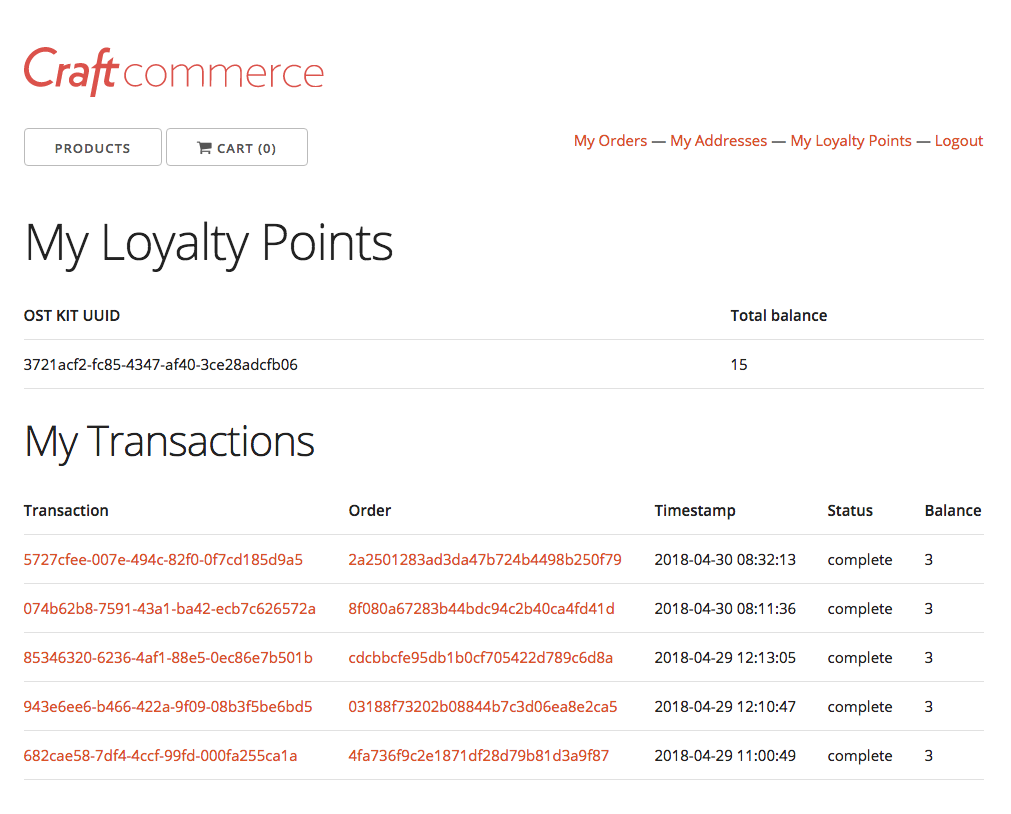
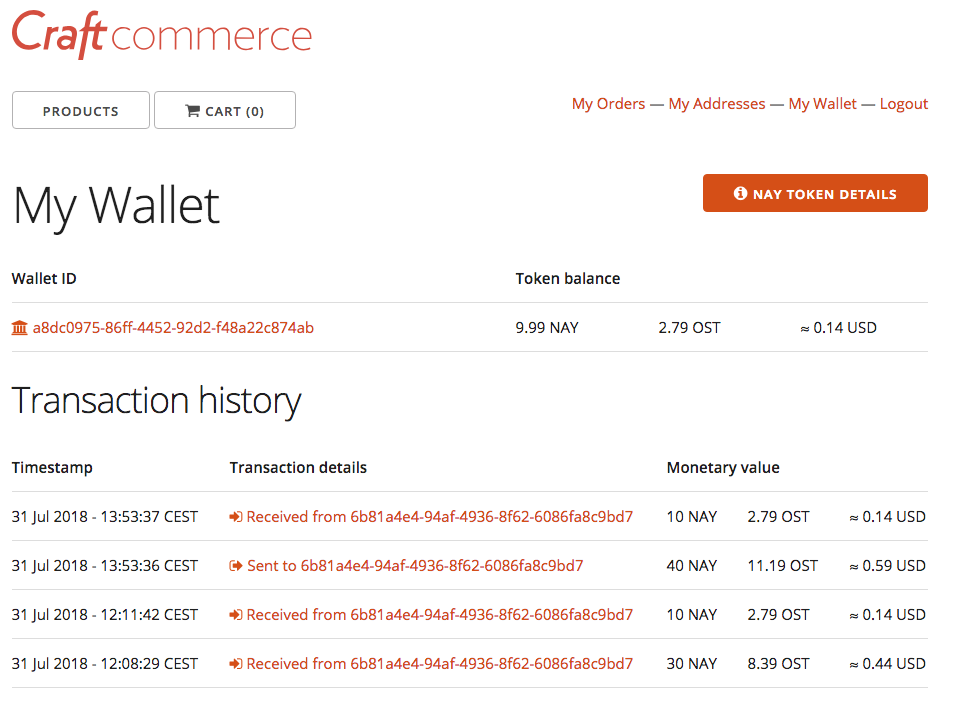
OSTa3 - Ledger API + spending tokens as order discount (craft adjuster)

diff --git a/ostloyaltytokens/services/OstLoyaltyTokens_TransactionsService.php b/ostloyaltytokens/services/OstLoyaltyTokens_TransactionsService.php
@@ -28,14 +28,14 @@ class OstLoyaltyTokens_TransactionsService extends BaseApplicationComponent {
         $rows = '';
         $token = OstLoyaltyTokensPlugin::getOstKitClient()->getToken();
         //https://view.ost.com/chain-id/1409/transaction/0x6d6332dc2ac55c2ae022c9f2f5eb62dbac0526e52e43b454258d48ebb4a5473e
-        $viewUrl = 'https://view.ost.com/chain-id/'.$token['ost_utility_balance'][0][0].'/transaction/';
+        $viewUrl = 'https://view.ost.com/chain-id/' . $token['ost_utility_balance'][0][0] . '/transaction/';
         foreach ($transactions as $transactionUuid) {
             $transaction = $this->getStatusForTransaction($transactionUuid);
-            OstLoyaltyTokensPlugin::log("Transaction $transactionUuid: " . $transaction['status'] . ' (' . $viewUrl.$transaction['transaction_hash'] . ')');
+            OstLoyaltyTokensPlugin::log("Transaction $transactionUuid: " . $transaction['status'] . ' (' . $viewUrl . $transaction['transaction_hash'] . ')');
             $orderUrl = "<a href=\"" . UrlHelper::getUrl('shop/customer/order', array('number' => $orderNumber)) . "\">$orderNumber</a>";
-            $viewLink = '<a target="_blank" title="View transaction ' . $transaction['transaction_hash'] . ' in OST View" href="' . $viewUrl.$transaction['transaction_hash'] . '">' . $transactionUuid . '</a>';
+            $viewLink = '<a target="_blank" title="View transaction ' . $transaction['transaction_hash'] . ' in OST View" href="' . $viewUrl . $transaction['transaction_hash'] . '">' . $transactionUuid . '</a>';
             if (isset($transaction['status'])) {
-                $rows .= '<tr><td>' . $viewLink . '</td><td>' . $orderUrl . '</td><td>' . date('Y-m-d H:i:s', $transaction['timestamp']) . '</td><td>' . $transaction['status'] . '</td><td>' . $transaction['amount'].' '.$token['symbol'] . '</td></tr>';
+                $rows .= '<tr><td>' . $viewLink . '</td><td>' . $orderUrl . '</td><td>' . date('Y-m-d H:i:s', $transaction['timestamp']) . '</td><td>' . $transaction['status'] . '</td><td>' . $transaction['amount'] . ' ' . $token['symbol'] . '</td></tr>';
             } else {
                 $rows .= "<tr></tr><td>Transaction #$transactionUuid</td><td>$orderUrl</td><td>?</td><td>unconfirmed</td><td>?</td></tr>";
             }
@@ -60,10 +60,10 @@ class OstLoyaltyTokens_TransactionsService extends BaseApplicationComponent {
         $token = OstLoyaltyTokensPlugin::getOstKitClient()->getToken();
         $fromUuid = $token['company_uuid'];
         $toUuid = craft()->userSession->getUser()->getContent()->ost_kit_uuid;
-        $transactionType = $settings['company_to_user_transaction_type'];
+        $action = $settings['reward_action'];
         $transactions = array();
         for ($i = 0; $i < $order->getTotalQty(); $i++) {
-            $transaction = OstLoyaltyTokensPlugin::getOstKitClient()->executeAction($transactionType, $fromUuid, $toUuid);
+            $transaction = OstLoyaltyTokensPlugin::getOstKitClient()->executeAction($action, $fromUuid, $toUuid);
             $transactionUuid = $transaction['id'];
             OstLoyaltyTokensPlugin::log("Executed reward action from '$fromUuid' to '$toUuid' ($transactionUuid)");
             array_push($transactions, $transactionUuid);
@@ -72,7 +72,7 @@ class OstLoyaltyTokens_TransactionsService extends BaseApplicationComponent {
         $order->getContent()->ost_kit_transaction = implode(",", $transactions);
         // save the order
         if (craft()->commerce_orders->saveOrder($order)) {
-            craft()->userSession->setFlash('ostLoyaltyTokens_notice', 'You received '.($order->getTotalQty()*3).' loyalty tokens for order #'.$order->shortNumber.' ('.$order->getContent()->ost_kit_transaction.')');
+            craft()->userSession->setFlash('ostLoyaltyTokens_notice', 'You received ' . ($order->getTotalQty() * 10) . ' tokens for order #' . $order->number.'.');
         } else {
             $msg = "Unable to assign Branded Token transaction.";
             OstLoyaltyTokensPlugin::logError($msg);
@@ -82,19 +82,20 @@ class OstLoyaltyTokens_TransactionsService extends BaseApplicationComponent {
     }
 
     public function executeRefundTransaction($order) {
-        OstLoyaltyTokensPlugin::log('Assigning refund transactions for order ' . $order->id);
+        OstLoyaltyTokensPlugin::log('Assigning refund transactions for order #' . $order->number);
         $settings = OstLoyaltyTokensPlugin::getPluginSettings();
-        $toUuid = $settings['company_uuid'];
+        $token = OstLoyaltyTokensPlugin::getOstKitClient()->getToken();
+        $toUuid = $token['company_uuid'];
         $fromUuid = craft()->userSession->getUser()->getContent()->ost_kit_uuid;
-        $transactionType = $settings['user_to_company_transaction_type'];
-        $transaction = OstLoyaltyTokensPlugin::getOstKitClient()->executeTransactionType($fromUuid, $toUuid, $transactionType);
+        $action = $settings['refund_action'];
+        $transaction = OstLoyaltyTokensPlugin::getOstKitClient()->executeAction($action, $fromUuid, $toUuid);
         $transactionUuid = $transaction['transaction_uuid'];
-        OstLoyaltyTokensPlugin::log("Executed '$transactionType' transaction from '$fromUuid' to '$toUuid' (OST KIT Transaction UUID='$transactionUuid')");
+        OstLoyaltyTokensPlugin::log("Executed '$action' transaction from '$fromUuid' to '$toUuid' ($transactionUuid)");
 
         $order->getContent()->ost_kit_transaction = $transactionUuid;
         // save the order
         if (craft()->commerce_orders->saveOrder($order)) {
-            $msg = "Branded Token transaction '$transactionUuid' has been assigned to order #'$order->number'";
+            $msg = "Branded Token transaction '$transactionUuid' has been assigned to order #$order->number.";
             OstLoyaltyTokensPlugin::log($msg);
             craft()->userSession->setFlash('ostLoyaltyTokens_notice', $msg);
         } else {
@@ -105,12 +106,52 @@ class OstLoyaltyTokens_TransactionsService extends BaseApplicationComponent {
         return $transactionUuid;
     }
 
+    public function executeRegistrationTransaction($toUuid) {
+        $settings = OstLoyaltyTokensPlugin::getPluginSettings();
+        if (isset($settings['registration_action'])) {
+            $token = OstLoyaltyTokensPlugin::getOstKitClient()->getToken();
+            $fromUuid = $token['company_uuid'];
+            OstLoyaltyTokensPlugin::log('Assigning registration bonus to user ' . $toUuid);
+            $transaction = OstLoyaltyTokensPlugin::getOstKitClient()->executeAction($settings['registration_action'], $fromUuid, $toUuid);
+            OstLoyaltyTokensPlugin::log("Executed reward action from '$fromUuid' to '$toUuid' ({$transaction['id']})");
+            return $transaction['id'];
+        }
+    }
+
+    public function executeDiscountTransaction($order, $discount) {
+        $settings = OstLoyaltyTokensPlugin::getPluginSettings();
+        if (isset($settings['discount_action'])) {
+            $fromUuid = craft()->userSession->getUser()->getContent()->ost_kit_uuid;
+            $balance = OstLoyaltyTokensPlugin::getOstKitClient()->getCombinedBalance($fromUuid);
+            if (isset($balance['usd_value']) && $balance['usd_value'] > 0) {
+//                $order->
+            }
+            $token = OstLoyaltyTokensPlugin::getOstKitClient()->getToken();
+            $toUuid = $token['company_uuid'];
+            OstLoyaltyTokensPlugin::log("Applied arbitrary discount of $discount USD to order #{$order->number}.");
+            $transaction = OstLoyaltyTokensPlugin::getOstKitClient()->executeAction($settings['discount_action'], $fromUuid, $toUuid, $discount);
+            OstLoyaltyTokensPlugin::log("Executed arbitrary discount action from '$fromUuid' to '$toUuid' ({$transaction['id']})");
+            return $transaction['id'];
+        }
+    }
+
     public function getLedger() {
+        $token = OstLoyaltyTokensPlugin::getOstKitClient()->getToken();
         $userId = craft()->userSession->getUser()->getContent()->ost_kit_uuid;
         OstLoyaltyTokensPlugin::log("Consulting ledger for $userId");
         $transactions = OstLoyaltyTokensPlugin::getOstKitClient()->getLedger($userId);
         // filter out failed transactions, they mess up the list anyway
-        return array_filter($transactions, function ($transaction) {return $transaction['status'] !== 'failed';}, ARRAY_FILTER_USE_BOTH);
+        return array_filter($transactions, function ($transaction) use ($token) {
+            if ($transaction['status'] !== 'failed') {
+                if ($token['company_uuid'] == $transaction['from_user_id']) {
+                    $transaction['from_user_id'] = 'Branded Token Company';
+                } else if ($token['company_uuid'] == $transaction['to_user_id']) {
+                    $transaction['to_user_id'] = 'Branded Token Company';
+                }
+                return true;
+            }
+            return false;
+        }, ARRAY_FILTER_USE_BOTH);
     }
 
 }

diff --git a/ostloyaltytokens/OstLoyaltyTokensPlugin.php b/ostloyaltytokens/OstLoyaltyTokensPlugin.php
@@ -13,6 +13,7 @@
 
 namespace Craft;
 require_once __DIR__ . '/../vendor/autoload.php';
+require_once __DIR__ . '/OstDiscounter.php';
 
 use ostkit\OstKitClient;
 
@@ -39,32 +40,49 @@ class OstLoyaltyTokensPlugin extends BasePlugin {
             return false;
         }
 
-        // listen for new user registrations only
+        // listen for new user registrations
         craft()->on('users.onBeforeSaveUser', function (Event $event) {
             // Only fire if new user, this should avoid an infinite loop
             $user = $event->params['user'];
             if ($event->params['isNewUser'] && craft()->request->isSiteRequest()) {
                 // retrieve the userModel from the event
                 craft()->ostLoyaltyTokens_users->createUser($user);
+                craft()->ostLoyaltyTokens_transactions->executeRegistrationTransaction($user->getContent()->ost_kit_uuid);
             }
             OstLoyaltyTokensPlugin::log("User '$user->name' has OST KIT UUID '" . $user->getContent()->ost_kit_uuid . "'");
         });
 
         // assign tokens on order completion
         craft()->on('commerce_orders.onOrderComplete', function (Event $event) {
+            foreach ($event->params['order']->adjustments as $adjustment) {
+                if ($adjustment->name === 'Loyalty token discount') {
+                    OstLoyaltyTokensPlugin::log('Executing discount transaction for Order #' . $event->params['order']);
+                    craft()->ostLoyaltyTokens_transactions->executeDiscountTransaction($event->params['order'], abs($adjustment->amount));
+                    break;
+                }
+            }
             OstLoyaltyTokensPlugin::log('Executing reward transaction for Order #' . $event->params['order']);
             craft()->ostLoyaltyTokens_transactions->executeRewardTransaction($event->params['order']);
         });
 
         // subtract tokens on order cancellation
         craft()->on('commerce_payments.onRefundTransaction', function (Event $event) {
-            OstLoyaltyTokensPlugin::log('Executing reward transaction for Order #' . $event->params['order']);
+            OstLoyaltyTokensPlugin::log('Executing refund transaction for Order #' . $event->params['order']);
             $transaction = $event->params['transaction'];
             if ($transaction->status == 'success') {
                 $transaction->order->orderStatusId = 2;
                 craft()->ostLoyaltyTokens_transactions->executeRefundTransaction($transaction->order);
             }
         });
+    }
+
+    /**
+     * Registers a custom order adjuster to spend loyalty tokens as discount.
+     *
+     * @return array of order adjusters
+     */
+    public function commerce_registerOrderAdjusters() {
+        return array(new OstDiscounter());
     }
 
     /**
@@ -190,12 +208,14 @@ class OstLoyaltyTokensPlugin extends BasePlugin {
      */
     protected function defineSettings() {
         return array(
-            'api_key' => array(AttributeType::String, 'label' => 'OST KIT - API key', 'required' => true, 'default' => null),
-            'secret' => array(AttributeType::String, 'label' => 'OST KTI - API secret', 'required' => true, 'default' => null),
-            'base_url' => array(AttributeType::String, 'label' => 'OST KTI - REST base URL', 'default' => 'https://sandboxapi.ost.com/v1.1'),
+            'api_key' => array(AttributeType::String, 'label' => 'OST KIT API key', 'required' => true, 'default' => null),
+            'secret' => array(AttributeType::String, 'label' => 'OST KTI API secret', 'required' => true, 'default' => null),
+            'base_url' => array(AttributeType::String, 'label' => 'OST KTI REST base URL', 'default' => 'https://sandboxapi.ost.com/v1.1'),
             'debug' => array(AttributeType::Bool, 'label' => 'Debug logging', 'default' => false),
-            'company_to_user_transaction_type' => array(AttributeType::String, 'label' => 'OST KIT - Company-to-user reward transaction type', 'required' => true, 'default' => 'Reward'),
-            'user_to_company_transaction_type' => array(AttributeType::String, 'label' => 'OST KIT - User-to-Company refund transaction type', 'required' => true, 'default' => 'Refund'),
+            'reward_action' => array(AttributeType::String, 'label' => 'Order Reward Action ID', 'required' => true),
+            'refund_action' => array(AttributeType::String, 'label' => 'Refund Action ID', 'required' => true),
+            'registration_action' => array(AttributeType::String, 'label' => 'Registration Bonus Action ID', 'required' => false),
+            'discount_action' => array(AttributeType::String, 'label' => 'Arbitrary USD Discount Action ID', 'required' => false),
         );
     }
 

diff --git a/ostloyaltytokens/OstDiscounter.php b/ostloyaltytokens/OstDiscounter.php
@@ -1,0 +1,56 @@
+<?php
+
+namespace Craft;
+
+use Commerce\Adjusters\Commerce_AdjusterInterface;
+use Commerce\Helpers\CommerceCurrencyHelper;
+use Craft\Commerce_DiscountModel;
+use Craft\Commerce_DiscountRecord;
+use Craft\Commerce_LineItemModel;
+use Craft\Commerce_OrderAdjustmentModel;
+use Craft\Commerce_OrderModel;
+use Craft\StringHelper;
+
+/**
+ * Custom cart adjuster to use loyalty tokens as discount on orders.
+ *
+ * @package Craft
+ */
+class OstDiscounter implements Commerce_AdjusterInterface {
+
+    /**
+     * The adjust method modifies the order values (like baseShippingCost),
+     * and records all adjustments by returning one or more orderAdjusterModels
+     * to be saved on the order.
+     *
+     * @param Commerce_OrderModel $order
+     * @param array $lineItems
+     *
+     * @return array of \Craft\Commerce_OrderAdjustmentModel objects
+     * @throws \Exception
+     */
+    public function adjust(Commerce_OrderModel &$order, array $lineItems = array()) {
+        $settings = OstLoyaltyTokensPlugin::getPluginSettings();
+        if (isset($settings['discount_action'])) {
+            $fromUuid = craft()->userSession->getUser()->getContent()->ost_kit_uuid;
+            $balance = OstLoyaltyTokensPlugin::getOstKitClient()->getCombinedBalance($fromUuid);
+            if (isset($balance['usd_value']) && $balance['usd_value'] > 0) {
+                $myAdjuster = new Commerce_OrderAdjustmentModel();
+
+                $discount = $balance['usd_value'] <= $order->totalPrice ? $balance['usd_value'] : $order->totalPrice;
+                $order->baseDiscount = $order->baseDiscount - $discount;
+                $myAdjuster->type = "Discount";
+                $myAdjuster->name = "Loyalty token discount";
+                $myAdjuster->description = "Loyalty token discount";
+                $myAdjuster->amount = -$discount;
+                $myAdjuster->orderId = $order->id;
+                $myAdjuster->optionsJson = array('lineItemsAffected' => null);
+                $myAdjuster->included = false;
+
+                return array($myAdjuster);
+            }
+        }
+
+        return array();
+    }
+}

diff --git a/ostloyaltytokens/services/OstLoyaltyTokens_UsersService.php b/ostloyaltytokens/services/OstLoyaltyTokens_UsersService.php
@@ -31,7 +31,7 @@ class OstLoyaltyTokens_UsersService extends BaseApplicationComponent {
             $msg = "Your token user ID is '" . $user->getContent()->ost_kit_uuid . "'";
             craft()->userSession->setFlash('ostLoyaltyTokens_notice', $msg);
         } catch (\Exception $e) {
-            throw new CHttpException(400, 'Internet connection not available: ' . $e->getMessage());
+            throw new HttpException(400, 'Internet connection not available: ' . $e->getMessage());
         }
 
         return $user;

diff --git a/README.md b/README.md
@@ -30,12 +30,12 @@ The **Loyalty Tokens** plugin builds on this toolkit to provide a blockchain-bas
 When the plugin is enabled, three event listeners are created:
  1. an event listener on the [users.onSaveUser](https://docs.craftcms.com/v2/plugins/events-reference.html#users-onSaveUser) event 
  to [create an OST KIT user](https://dev.ost.com/docs/api_users_create.html) with the same username whenever a user registers. 
- The resulting OST KIT ID is stored in an additional user field `OST KIT UUID` that must be setup first. 
+ The resulting OST KIT ID is stored in an additional user field `OST KIT UUID` that must be setup first. Optionally, the user receives a registration bonus by executing a fixed BT c2u action.
  This will be the receiver of the loyalty tokens.
- 2. an event listener on the [commerce_orders.onOrderComplete](https://craftcommerce.com/docs/events-reference#commerce_orders.onordercomplete) event to [execute a specific OST KIT 'company_to_user' transaction type](https://dev.ost.com/docs/api_transaction-types_execute.html) when a customer successfully completes on order. A reference to the OST KIT transactions is stored in an additional order field `OST KIT Transaction UUD` that must be setup first. 
+ 2. an event listener on the [commerce_orders.onOrderComplete](https://craftcommerce.com/docs/events-reference#commerce_orders.onordercomplete) event to [execute a specific OST KIT 'company_to_user' transaction type](https://dev.ost.com/docs/api_transaction-types_execute.html) when a customer successfully completes on order. A reference to the OST KIT transactions is stored in an additional order field `OST KIT Transaction UUD` that must be setup first. Optionally, the available tokens can be spent as discount on an order by executing an arbitrary USD amount u2c action. 
  3. an event listener on the [commerce_payments.onRefundTransaction]() event to return tokens back to the company in case a transaction is refunded. 
  
-The plugin provides a _Token balance_ [Twig](https://twig.symfony.com/doc/2.x/templates.html) template and variable that can be easily integrated to provide an overview of all related blockchain transactions with click-through links to the order details and the transaction details on the blockchain explorer [OST View](https://view.ost.com/).
+The plugin provides a _Token balance_ [Twig](https://twig.symfony.com/doc/2.x/templates.html) template and variable that can be easily integrated to provide an overview of all related blockchain transactions with click-through links to the order details and the transaction details on the blockchain explorer [OST View](https://view.ost.com/). It leverages the information provides by the []Balance and Ledger API](https://medium.com/ostdotcom/introducing-ost-ledger-balance-apis-to-integrate-branded-token-balances-and-transaction-histories-2420736070bb).
 
 The plugin interacts with OST KIT via a PHP client. If you want to use this client in your own projects, you can find it here: [ost-kit-php-client](https://github.com/realJayNay/ost-kit-php-client). 
 
@@ -47,20 +47,27 @@ The plugin interacts with OST KIT via a PHP client. If you want to use this clie
 - All configuration data that is needed by the plugin to perform its tasks is securely stored in the plugin settings of Craft CMS. A settings page is included and is accessible in the admin console as soon as the plugin is installed. To access the plugin settings page, press the _cog_  icon in the plugins admin area of Craft CMS.
 ![Screenshot](ostloyaltytokens/resources/screenshots/settings.png)
 
-- Setup a custom user field `OST KIT UUID` and a custom order field `OST KIT Transaction UUID`. This is a [Craft CMS feature](https://craftcms.com/features/custom-fields), please see the related documentation for more information on how to setup custom fields and assign the to a model.
+- Setup a custom user field `OST KIT UUID` and a custom order field `OST KIT Transaction UUID`. This is a [Craft CMS feature](https://craftcms.com/features/custom-fields), please see the related documentation for more information on how to setup custom fields and assign them to a model.
 
 - Setup links to the balance overview template that is provided by the plugin to allow the user to see its Branded Token balance from within your web shop frontend site. The screenshot below is an example of how the template looks like in the Craft Commerce sample frontend template. 
 ![Screenshot](ostloyaltytokens/resources/screenshots/balance.png)
 
 ## Using OST Loyalty Tokens
 
-The plugin interacts with OST KIT automatically whenever a user is registered, an order is completed or a payment is refunded.
+The plugin interacts with OST KIT automatically whenever 
+* a user is registered
+    * creates a branded token economy user
+    * assignes a fixed number of tokens as registration bonus (optional)
+* an order is completed
+    * spends available tokens as a discount on the order (optional)
+    * assigns a fixed number of tokens for each line item as reward 
+* a payment is refunded
+    * returns a fixed number of tokens to the company
 
 ## OST Loyalty Tokens Roadmap
 
 Some things to do, and ideas for potential features:
 
-* Upgrade to [OST KIT REST API v1.0](https://dev.ost.com/docs/api.html).
 * Replace the refund event listener with a smart contract that acts as an escrow account and finalizes when the order is delivered.
 
 ## Questions, feature requests and bug reports
